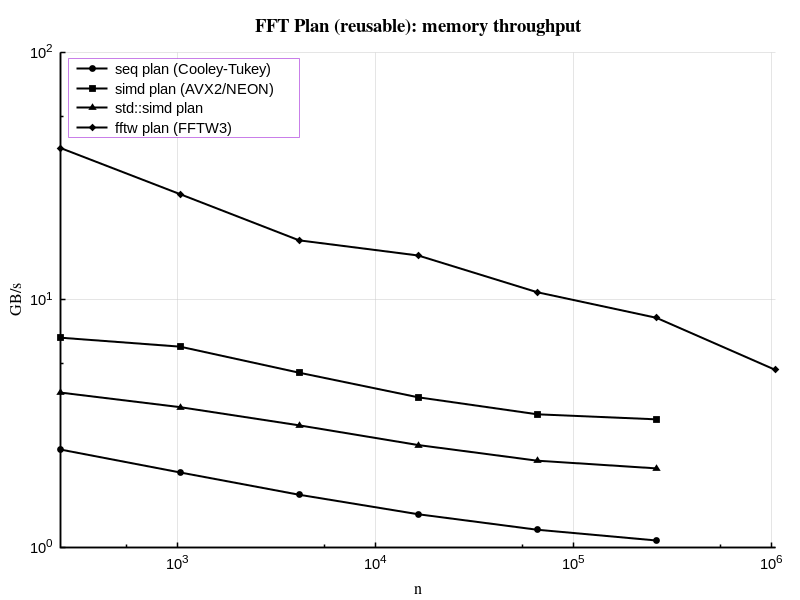
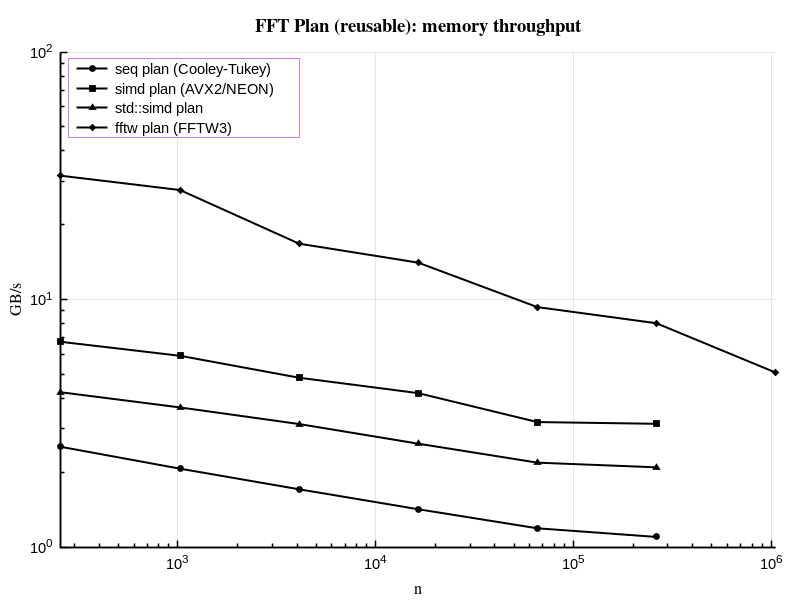
report regenerated with new env

diff --git a/docs/report/index.html b/docs/report/index.html
@@ -3,7 +3,7 @@
 <head>
   <meta charset="UTF-8"/>
   <meta name="viewport" content="width=device-width, initial-scale=1.0"/>
-  <title>numerics — Status Report (2026-03-29 22:32 UTC)</title>
+  <title>numerics — Status Report (2026-04-02 09:48 UTC)</title>
   <script src="https://cdn.jsdelivr.net/npm/marked/marked.min.js"></script>
   <style>
     body { max-width: 900px; margin: 0 auto; padding: 2rem; font-family: sans-serif; line-height: 1.6; }
@@ -21,7 +21,7 @@
 <div id="content"></div>
 <script>
 (function(){
-  var md = "# Numerics Library — Status Report\n\n> 2026-03-29 22:32 UTC · GNU 11.4.0 · Release\n\nAuto-generated by `make report`. Each section compares our implementation against the\nindustry-standard LAPACK\/BLAS reference. Sections without data show `[not available]`.\n\n---\n\n## Table of Contents\n\n- [Build Environment](#build-environment)\n- [Test Summary](#test-summary)\n- [Core — Vector and Matrix](#core--vector-and-matrix)\n  - [Benchmarks — Matrix Multiply](#benchmarks--matrix-multiply)\n  - [Benchmarks — Matrix-Vector Multiply](#benchmarks--matrix-vector-multiply)\n  - [Benchmarks — Dot Product](#benchmarks--dot-product)\n  - [Benchmarks — Axpy](#benchmarks--axpy)\n- [Factorizations](#factorizations)\n  - [LU Factorization](#lu-factorization)\n  - [QR Factorization](#qr-factorization)\n  - [Thomas Tridiagonal Solver](#thomas-tridiagonal-solver)\n- [Iterative Solvers](#iterative-solvers)\n  - [Conjugate Gradient](#conjugate-gradient)\n- [Banded Matrices](#banded-matrices)\n- [Eigensolvers](#eigensolvers)\n  - [Full Symmetric Eigensolver](#full-symmetric-eigensolver)\n  - [Lanczos (Matrix-Free)](#lanczos-matrix-free)\n- [Singular Value Decomposition](#singular-value-decomposition)\n  - [Full SVD](#full-svd)\n  - [Randomized Truncated SVD](#randomized-truncated-svd)\n- [Analysis](#analysis)\n- [Spectral — FFT](#spectral--fft)\n\n---\n\n## Build Environment\n\n### System\n\n| Property | Value |\n|----------|-------|\n| OS       | Linux |\n| CPU      | 8 core AMD Ryzen 7 7800X3D 8-Core Processor |\n| RAM      | 31269 MB (30.5 GB) |\n| GPU      | NVIDIA GeForce RTX 4070 SUPER |\n\n\n### Backends\n\n| Backend | Status | Notes |\n|---------|--------|-------|\n| BLAS \/ cblas | **found** | Backend::blas   -- cblas_dgemm, cblas_ddot, cblas_dgemv |\n| LAPACKE | **found** | Backend::lapack -- dgetrf, dgeqrf, dgesdd, dsyevd, dgtsv |\n| OpenMP | **found** | Backend::omp    -- parallel blocked loops |\n| FFTW3 | **found** | FFTBackend::fftw -- AVX2\/NEON optimised DFT |\n| CUDA | **found** | Backend::gpu    -- custom kernels \/ cuBLAS |\n| MPI | not found | distributed ops (experimental) |\n\n\n---\n\n## Test Summary\n\nAll test suites. A failed suite must be investigated before using the library in production.\n\n| Suite | Tests | Passed | Failed | Time |\n|-------|------:|-------:|-------:|-----:|\n| Vector | 7 | 7 | 0 | 0.0 ms |\n| Matrix | 5 | 5 | 0 | 0.0 ms |\n| MatmulPolicy | 1 | 1 | 0 | 0.0 ms |\n| MatvecPolicy | 1 | 1 | 0 | 0.0 ms |\n| CG | 3 | 3 | 0 | 0.0 ms |\n| Thomas | 3 | 3 | 0 | 0.0 ms |\n| GaussSeidel | 3 | 3 | 0 | 0.0 ms |\n| Jacobi | 3 | 3 | 0 | 0.0 ms |\n| GMRES | 4 | 4 | 0 | 0.0 ms |\n| SparseMatrix | 3 | 3 | 0 | 0.0 ms |\n| BandedMatrix | 6 | 6 | 0 | 0.0 ms |\n| BandedSolver | 11 | 11 | 0 | 23.0 ms |\n| BandedMatvec | 2 | 2 | 0 | 0.0 ms |\n| BandedNorm | 1 | 1 | 0 | 0.0 ms |\n| LU | 9 | 9 | 0 | 0.0 ms |\n| QR | 7 | 7 | 0 | 0.0 ms |\n| Roots | 9 | 9 | 0 | 0.0 ms |\n| Quadrature | 11 | 11 | 0 | 37.0 ms |\n| FFT | 13 | 13 | 0 | 1.0 ms |\n| FFTPlan | 4 | 4 | 0 | 60.0 ms |\n| ODE_Euler | 1 | 1 | 0 | 0.0 ms |\n| ODE_RK4 | 2 | 2 | 0 | 0.0 ms |\n| ODE_RK45 | 2 | 2 | 0 | 0.0 ms |\n| ODE_Callback | 2 | 2 | 0 | 0.0 ms |\n| ODE_Verlet | 4 | 4 | 0 | 0.0 ms |\n| ODE_Yoshida4 | 3 | 3 | 0 | 0.0 ms |\n| EigSym_Jacobi | 3 | 3 | 0 | 0.0 ms |\n| EigSym_LAPACK | 3 | 3 | 0 | 0.0 ms |\n| PowerIteration | 1 | 1 | 0 | 0.0 ms |\n| Lanczos | 1 | 1 | 0 | 0.0 ms |\n| SVD_Jacobi | 3 | 3 | 0 | 0.0 ms |\n| SVD_LAPACK | 4 | 4 | 0 | 0.0 ms |\n| SVD_Randomized | 2 | 2 | 0 | 0.0 ms |\n\n\n---\n\n## Core — Vector and Matrix\n\n`Vector` and `Matrix` dispatch to the backend selected via the `Backend` enum\n(`seq → blocked → simd → blas → omp → gpu`). With BLAS available, `default_backend`\nresolves to `Backend::blas`.\n\n### Tests\n\n| Suite | Tests | Passed | Failed | Time |\n|-------|------:|-------:|-------:|-----:|\n| Vector | 7 | 7 | 0 | 0.0 ms |\n| Matrix | 5 | 5 | 0 | 0.0 ms |\n\n\n### Benchmarks — Matrix Multiply\n\nThroughput: `2 n³ \/ time` (GFLOP\/s, higher is better). Sizes n = 64…512.\n\n![Matrix multiply: GFLOP\/s vs n](plots\/matmul.png)\n\n\n| Variant | n=64 us | n=128 us | n=256 us | n=512 us |\n|---------|---------|----------|----------|----------|\n| naive | 147.9 | 1696.2 | 28639.3 | 589898.0 |\n| blocked (auto-vec) | 30.6 | 249.9 | 2020.3 | 20047.1 |\n| reg-blocked | 51.0 | 411.1 | 3323.1 | 28196.5 |\n| blocked | 30.7 | 249.1 | 2019.0 | 16763.5 |\n| simd | 16.2 | 132.2 | 1455.3 | 31721.6 |\n| blas | 11.2 | 31.0 | 140.6 | 994.0 |\n| omp | 2657.6 | 5839.1 | 5791.0 | 5971.0 |\n| gpu | 0.3 | 0.3 | 0.3 | 0.3 |\n| Matmul_Scalar | 123.0 | 1296.1 | 27899.0 | 486643.2 |\n| Matmul_Scalar_Blocked | 108.9 | 882.2 | 7073.3 | 57203.0 |\n\n*Time in us. Lower is better.*\n\n\n### Benchmarks — Matrix-Vector Multiply\n\nMemory-bound. GB\/s = `(n² + 2n) × 8 \/ time`.\n\n*Plot not available (backend absent or benchmarks not run).*\n\n\n| Variant | n=64 GB\/s | n=128 GB\/s | n=256 GB\/s | n=512 GB\/s | n=1024 GB\/s | n=2048 GB\/s |\n|---------|-----------|------------|------------|------------|-------------|-------------|\n| seq | 15.47 | 12.99 | 11.18 | 10.44 | 10.08 | 9.93 |\n| blocked | 15.47 | 12.99 | 11.17 | 10.43 | 10.10 | 9.93 |\n| simd | 95.17 | 86.85 | 63.27 | 60.17 | 48.36 | 42.58 |\n| blas | 115.83 | 48.19 | 152.16 | 351.95 | 423.28 | 439.11 |\n| omp | 0.01 | 0.02 | 0.09 | 0.45 | 1.47 | 5.78 |\n| gpu | 120.40 | 475.37 | 1886.92 | 7520.19 | 30008.08 | 120085.89 |\n\n*Throughput in GB\/s. Higher is better.*\n\n\n### Benchmarks — Dot Product\n\n*Plot not available (backend absent or benchmarks not run).*\n\n\n| Variant | n=1024 GB\/s | n=4096 GB\/s | n=16384 GB\/s | n=65536 GB\/s | n=262144 GB\/s | n=1048576 GB\/s |\n|---------|-------------|-------------|--------------|--------------|---------------|----------------|\n| seq | 22.06 | 21.15 | 20.99 | 20.88 | 20.87 | 26.07 |\n| blas | 277.33 | 154.31 | 94.81 | 277.59 | 496.26 | 523.74 |\n| omp | 0.00 | 0.01 | 0.04 | 0.18 | 0.73 | 2.98 |\n| gpu | 2.40 | 9.59 | 38.24 | 153.33 | 57.25 | 234.47 |\n\n*Throughput in GB\/s. Higher is better.*\n\n\n### Benchmarks — Axpy (y += a·x)\n\n*Plot not available (backend absent or benchmarks not run).*\n\n\n| Variant | n=1024 GB\/s | n=4096 GB\/s | n=16384 GB\/s | n=65536 GB\/s | n=262144 GB\/s | n=1048576 GB\/s |\n|---------|-------------|-------------|--------------|--------------|---------------|----------------|\n| seq | 377.93 | 221.34 | 223.61 | 186.26 | 186.25 | 183.28 |\n| blas | 358.49 | 220.07 | 133.71 | 387.36 | 693.99 | 674.22 |\n| omp | 0.01 | 0.02 | 0.07 | 0.29 | 1.11 | 4.41 |\n| gpu | 88.01 | 361.60 | 1405.75 | 5614.33 | 22488.22 | 89781.20 |\n\n*Throughput in GB\/s. Higher is better.*\n\n\n---\n\n## Factorizations\n\nThree variants benchmarked side-by-side: **our seq**, **our omp**, **LAPACK**\n(`LAPACKE_dgetrf` \/ `LAPACKE_dgeqrf`). With LAPACK available, `lu()` and `qr()`\ndefault to `Backend::lapack`.\n\n### Tests\n\n| Suite | Tests | Passed | Failed | Time |\n|-------|------:|-------:|-------:|-----:|\n| Thomas | 3 | 3 | 0 | 0.0 ms |\n| LU | 9 | 9 | 0 | 0.0 ms |\n| QR | 7 | 7 | 0 | 0.0 ms |\n\n\n### LU Factorization\n\nLAPACK uses a blocked algorithm (BLAS-3 trailing-matrix updates via `dgemm`) that is\nsignificantly faster than our unblocked Doolittle for large n.\n\n*Plot not available (backend absent or benchmarks not run).*\n\n\n| Variant | n=64 us | n=128 us | n=256 us | n=512 us | n=1024 us |\n|---------|---------|----------|----------|----------|-----------|\n| seq | 11.5 | 100.2 | 866.2 | 8612.7 | 57056.2 |\n| omp | 11.5 | 100.4 | 865.9 | 8618.8 | 57074.2 |\n| LU<Backend::lapack> | 17.5 | 206175.7 | 444255.8 | 1045780.3 | 2022456.5 |\n\n*GFLOP\/s: 2\/3 n^3 \/ time. Higher is better.*\n\n\n### QR Factorization\n\nLAPACK (`dgeqrf` + `dorgqr`) uses blocked Householder with `dgemm` for panel updates.\n\n*Plot not available (backend absent or benchmarks not run).*\n\n\n| Variant | n=64 us | n=128 us | n=256 us | n=512 us |\n|---------|---------|----------|----------|----------|\n| seq | 201.8 | 4032.5 | 89445.9 | 1734123.0 |\n| omp | 184.9 | 4019.4 | 89586.0 | 1734253.4 |\n| QR<Backend::lapack> | 66.1 | 731.4 | 2585.9 | 17194.0 |\n\n*GFLOP\/s: 4\/3 n^3 \/ time. Higher is better.*\n\n\n### Thomas Tridiagonal Solver\n\nO(n) direct solver. `LAPACKE_dgtsv` uses the same algorithm with additional\npivoting for stability.\n\n![Thomas algorithm: time vs n](plots\/thomas.png)\n\n\n| Variant | n=64 us | n=256 us | n=1024 us | n=4096 us | n=16384 us | n=65536 us |\n|---------|---------|----------|-----------|-----------|------------|------------|\n| Thomas | 1.0 | 4.0 | 15.6 | 61.6 | 247.4 | 993.1 |\n\n*Time in us. Linear O(n) scaling expected.*\n\n\n---\n\n## Iterative Solvers\n\n### Tests\n\n| Suite | Tests | Passed | Failed | Time |\n|-------|------:|-------:|-------:|-----:|\n| CG | 3 | 3 | 0 | 0.0 ms |\n| GaussSeidel | 3 | 3 | 0 | 0.0 ms |\n| Jacobi | 3 | 3 | 0 | 0.0 ms |\n\n\n### Conjugate Gradient\n\nCG inner-product and axpy calls dispatch to `best_backend` (BLAS when available).\n\n![Conjugate gradient: time vs n](plots\/cg.png)\n\n\n| Variant | n=32 us | n=64 us | n=128 us | n=256 us |\n|---------|---------|---------|----------|----------|\n| CG | 1.4 | 3.0 | 17.0 | 22.0 |\n| gpu | 37.6 | 35.5 | 35.7 | 36.5 |\n\n*Time in us. Lower is better.*\n\n\n---\n\n## Banded Matrices\n\n### Tests\n\n*No test data -- run `make report` to generate.*\n\n\n### Benchmarks\n\n![Banded solver: time vs n](plots\/banded.png)\n\n\n| Variant | n=3 us | n=5 us | n=7 us | n=11 us | n=15 us | n=21 us | n=64 us | n=256 us | n=1024 us | n=4096 us | n=16384 us | n=65536 us | n=262144 us |\n|---------|--------|--------|--------|---------|---------|---------|---------|----------|-----------|-----------|------------|------------|-------------|\n| BandedSolve_Tridiagonal | -- | -- | -- | -- | -- | -- | 1.4 | 4.7 | 17.9 | 70.1 | 282.6 | 1510.4 | 6357.6 |\n| BandedSolve_Pentadiagonal | -- | -- | -- | -- | -- | -- | 1.7 | 5.6 | 21.6 | 85.1 | 344.4 | 2016.4 | -- |\n| BandedSolve_General_KL2_KU4 | -- | -- | -- | -- | -- | -- | 1.7 | 5.9 | 22.8 | 89.5 | 669.8 | 2321.8 | -- |\n| BandedSolve_General_KL5_KU5 | -- | -- | -- | -- | -- | -- | 2.1 | 7.9 | 30.3 | 123.1 | 871.0 | -- | -- |\n| BandedLU_Factorization | -- | -- | -- | -- | -- | -- | 0.9 | 2.4 | 8.7 | 34.0 | 135.8 | 534.8 | -- |\n| BandedLU_Solve | -- | -- | -- | -- | -- | -- | 1.1 | 3.2 | 11.9 | 46.5 | 185.5 | 743.5 | -- |\n| BandedSolve_MultiRHS | -- | -- | -- | -- | -- | -- | 11.9 | 47.1 | 186.7 | 746.4 | 2986.4 | -- | -- |\n| BandedMatvec_Tridiagonal | -- | -- | -- | -- | -- | -- | 0.5 | 1.5 | 5884.2 | 5922.0 | 5496.1 | 6021.6 | 5702.0 |\n| BandedMatvec_Pentadiagonal | -- | -- | -- | -- | -- | -- | 0.7 | 2.4 | 5791.0 | 5498.6 | 5793.1 | 3128.1 | 5912.8 |\n| BandedSolve_Bandwidth_Scaling | 72.9 | 85.4 | 97.8 | 135.0 | 182.4 | 292.0 | -- | -- | -- | -- | -- | -- | -- |\n\n*Time in us. Lower is better.*\n\n\n---\n\n## Eigensolvers\n\nThree variants: **our cyclic Jacobi (seq)**, **our Jacobi (omp)**, **LAPACK `dsyevd`**\n(divide-and-conquer, asymptotically fastest for dense matrices).\nLanczos is matrix-free and targets only k eigenvalues — it lives on a separate plot.\n\n### Tests\n\n| Suite | Tests | Passed | Failed | Time |\n|-------|------:|-------:|-------:|-----:|\n| PowerIteration | 1 | 1 | 0 | 0.0 ms |\n| Lanczos | 1 | 1 | 0 | 0.0 ms |\n\n\n### Full Symmetric Eigensolver\n\n![Symmetric eigensolver: time vs n](plots\/eigen.png)\n\n\n| Variant | n=32 us | n=64 us | n=128 us | n=256 us | n=512 us |\n|---------|---------|---------|----------|----------|----------|\n| seq | 174.0 | 1189.0 | 11470.5 | 280768.3 | 7063639.7 |\n| EigSym<Backend::lapack> | 49.6 | 177.9 | 915.9 | 3240.0 | 22079.3 |\n\n*Time in us. Lower is better.*\n\n\n### Lanczos (Matrix-Free)\n\nk = 10 eigenvalues requested. Each step costs one matvec O(n²) plus reorthogonalisation.\n\n| Variant | n=64 us | n=128 us | n=256 us | n=512 us | n=1024 us | n=2048 us |\n|---------|---------|----------|----------|----------|-----------|-----------|\n| Lanczos | 26.5 | 138.1 | 244.1 | 524.9 | 1613.9 | 5725.7 |\n\n*Time in us (k=10 eigenvalues). Lower is better.*\n\n\n---\n\n## Singular Value Decomposition\n\nThree variants: **our one-sided Jacobi**, **randomized truncated SVD** (top k = n\/8),\n**LAPACK `dgesdd`** (divide-and-conquer, fastest full SVD).\n\n### Tests\n\n*No test data -- run `make report` to generate.*\n\n\n### Full SVD\n\n![SVD: time vs n](plots\/svd.png)\n\n\n*No benchmark data -- run `make report` to generate.*\n\n\n### Randomized Truncated SVD\n\n| Variant | n=64 us | n=128 us | n=256 us | n=512 us | n=1024 us |\n|---------|---------|----------|----------|----------|-----------|\n| SVD_Randomized | 190.6 | 1144.3 | 10658.5 | 277584.8 | 2480805.3 |\n\n*Time in us (k=n\/8 singular values). Lower is better.*\n\n\n---\n\n## Analysis\n\nRoot finding (bisection, Newton, secant) and numerical quadrature\n(Gauss-Legendre, adaptive Simpson).\n\n### Tests\n\n| Suite | Tests | Passed | Failed | Time |\n|-------|------:|-------:|-------:|-----:|\n| Roots | 9 | 9 | 0 | 0.0 ms |\n| Quadrature | 11 | 11 | 0 | 37.0 ms |\n\n\n---\n\n## Spectral — FFT\n\nBackends: `seq` (Cooley-Tukey), `simd` (AVX2\/NEON), `fftw` (FFTW3).\n\n### Tests\n\n| Suite | Tests | Passed | Failed | Time |\n|-------|------:|-------:|-------:|-----:|\n| FFT | 13 | 13 | 0 | 1.0 ms |\n| FFTPlan | 4 | 4 | 0 | 60.0 ms |\n\n\n### Benchmarks — Forward FFT\n\n![FFT throughput: GB\/s vs n](plots\/fft.png)\n\n\n| Variant | n=256 GB\/s | n=1024 GB\/s | n=4096 GB\/s | n=16384 GB\/s | n=65536 GB\/s | n=262144 GB\/s | n=1048576 GB\/s |\n|---------|------------|-------------|-------------|--------------|--------------|---------------|----------------|\n| seq (Cooley-Tukey) | 2.47 | 2.00 | 1.63 | 1.36 | 1.17 | 1.06 | -- |\n| simd (AVX2\/NEON) | 7.01 | 6.45 | 5.06 | 4.03 | 3.44 | 3.28 | -- |\n| std::simd | 4.20 | 3.67 | 3.10 | 2.58 | 2.23 | 2.08 | -- |\n| fftw (FFTW3) | 40.86 | 26.65 | 17.34 | 15.06 | 10.70 | 8.44 | 5.19 |\n\n*Throughput in GB\/s. Higher is better.*\n\n\n### Benchmarks — FFT Plan (amortised)\n\n![FFT plan throughput: GB\/s vs n](plots\/fft_plan.png)\n\n\n| Variant | n=256 GB\/s | n=1024 GB\/s | n=4096 GB\/s | n=16384 GB\/s | n=65536 GB\/s | n=262144 GB\/s | n=1048576 GB\/s |\n|---------|------------|-------------|-------------|--------------|--------------|---------------|----------------|\n| seq (Cooley-Tukey) | 2.47 | 2.00 | 1.63 | 1.36 | 1.17 | 1.06 | -- |\n| simd (AVX2\/NEON) | 7.01 | 6.45 | 5.06 | 4.03 | 3.44 | 3.28 | -- |\n| std::simd | 4.20 | 3.67 | 3.10 | 2.58 | 2.23 | 2.08 | -- |\n| fftw (FFTW3) | 40.86 | 26.65 | 17.34 | 15.06 | 10.70 | 8.44 | 5.19 |\n\n*Throughput in GB\/s. Plan creation excluded. Higher is better.*\n\n\n### Benchmarks — Real-to-Complex FFT\n\n![rFFT throughput: GB\/s vs n](plots\/rfft.png)\n\n\n| Variant | n=256 GB\/s | n=1024 GB\/s | n=4096 GB\/s | n=16384 GB\/s | n=65536 GB\/s | n=262144 GB\/s | n=1048576 GB\/s |\n|---------|------------|-------------|-------------|--------------|--------------|---------------|----------------|\n| seq (Cooley-Tukey) | 0.64 | 0.52 | 0.42 | 0.36 | 0.31 | 0.27 | -- |\n| simd (AVX2\/NEON) | 1.52 | 1.50 | 1.39 | 1.21 | 1.08 | 1.03 | -- |\n| std::simd | 1.23 | 1.15 | 1.04 | 0.92 | 0.81 | 0.77 | -- |\n| fftw (FFTW3) | 0.28 | 0.84 | 1.66 | 1.98 | 2.12 | 1.76 | 1.66 |\n\n*Throughput in GB\/s. Higher is better.*\n\n\n---\n\n*Generated by `make report`.*\n";
+  var md = "# Numerics Library — Status Report\n\n> 2026-04-02 09:48 UTC · GNU 11.4.0 · Release\n\nAuto-generated by `make report`. Each section compares our implementation against the\nindustry-standard LAPACK\/BLAS reference. Sections without data show `[not available]`.\n\n---\n\n## Table of Contents\n\n- [Build Environment](#build-environment)\n- [Test Summary](#test-summary)\n- [Core — Vector and Matrix](#core--vector-and-matrix)\n  - [Benchmarks — Matrix Multiply](#benchmarks--matrix-multiply)\n  - [Benchmarks — Matrix-Vector Multiply](#benchmarks--matrix-vector-multiply)\n  - [Benchmarks — Dot Product](#benchmarks--dot-product)\n  - [Benchmarks — Axpy](#benchmarks--axpy)\n- [Factorizations](#factorizations)\n  - [LU Factorization](#lu-factorization)\n  - [QR Factorization](#qr-factorization)\n  - [Thomas Tridiagonal Solver](#thomas-tridiagonal-solver)\n- [Iterative Solvers](#iterative-solvers)\n  - [Conjugate Gradient](#conjugate-gradient)\n- [Banded Matrices](#banded-matrices)\n- [Eigensolvers](#eigensolvers)\n  - [Full Symmetric Eigensolver](#full-symmetric-eigensolver)\n  - [Lanczos (Matrix-Free)](#lanczos-matrix-free)\n- [Singular Value Decomposition](#singular-value-decomposition)\n  - [Full SVD](#full-svd)\n  - [Randomized Truncated SVD](#randomized-truncated-svd)\n- [Analysis](#analysis)\n- [Spectral — FFT](#spectral--fft)\n\n---\n\n## Build Environment\n\n### System\n\n| Property | Value |\n|----------|-------|\n| OS       | Linux |\n| CPU      | 8 core AMD Ryzen 7 7800X3D 8-Core Processor |\n| RAM      | 31269 MB (30.5 GB) |\n| GPU      | NVIDIA GeForce RTX 4070 SUPER |\n\n\n### Backends\n\n| Backend | Status | Notes |\n|---------|--------|-------|\n| BLAS \/ cblas | **found** | Backend::blas   -- cblas_dgemm, cblas_ddot, cblas_dgemv |\n| LAPACKE | **found** | Backend::lapack -- dgetrf, dgeqrf, dgesdd, dsyevd, dgtsv |\n| OpenMP | **found** | Backend::omp    -- parallel blocked loops |\n| FFTW3 | **found** | FFTBackend::fftw -- AVX2\/NEON optimised DFT |\n| CUDA | **found** | Backend::gpu    -- custom kernels \/ cuBLAS |\n| MPI | not found | distributed ops (experimental) |\n\n\n---\n\n## Test Summary\n\nAll test suites. A failed suite must be investigated before using the library in production.\n\n| Suite | Tests | Passed | Failed | Time |\n|-------|------:|-------:|-------:|-----:|\n| Vector | 7 | 7 | 0 | 0.0 ms |\n| Matrix | 5 | 5 | 0 | 0.0 ms |\n| MatmulPolicy | 1 | 1 | 0 | 0.0 ms |\n| MatvecPolicy | 1 | 1 | 0 | 0.0 ms |\n| CG | 3 | 3 | 0 | 0.0 ms |\n| Thomas | 3 | 3 | 0 | 0.0 ms |\n| GaussSeidel | 3 | 3 | 0 | 0.0 ms |\n| Jacobi | 3 | 3 | 0 | 0.0 ms |\n| GMRES | 4 | 4 | 0 | 0.0 ms |\n| SparseMatrix | 3 | 3 | 0 | 0.0 ms |\n| BandedMatrix | 6 | 6 | 0 | 0.0 ms |\n| BandedSolver | 11 | 11 | 0 | 70.0 ms |\n| BandedMatvec | 2 | 2 | 0 | 0.0 ms |\n| BandedNorm | 1 | 1 | 0 | 0.0 ms |\n| LU | 9 | 9 | 0 | 0.0 ms |\n| QR | 7 | 7 | 0 | 0.0 ms |\n| Roots | 9 | 9 | 0 | 0.0 ms |\n| Quadrature | 11 | 11 | 0 | 13.0 ms |\n| FFT | 13 | 13 | 0 | 2.0 ms |\n| FFTPlan | 4 | 4 | 0 | 61.0 ms |\n| ODE_Euler | 1 | 1 | 0 | 0.0 ms |\n| ODE_RK4 | 2 | 2 | 0 | 0.0 ms |\n| ODE_RK45 | 2 | 2 | 0 | 0.0 ms |\n| ODE_Stepper | 2 | 2 | 0 | 0.0 ms |\n| ODE_Verlet | 4 | 4 | 0 | 0.0 ms |\n| ODE_Yoshida4 | 3 | 3 | 0 | 0.0 ms |\n| EigSym_Jacobi | 3 | 3 | 0 | 0.0 ms |\n| EigSym_LAPACK | 3 | 3 | 0 | 0.0 ms |\n| PowerIteration | 1 | 1 | 0 | 0.0 ms |\n| Lanczos | 1 | 1 | 0 | 0.0 ms |\n| SVD_Jacobi | 3 | 3 | 0 | 0.0 ms |\n| SVD_LAPACK | 4 | 4 | 0 | 1.0 ms |\n| SVD_Randomized | 2 | 2 | 0 | 0.0 ms |\n\n\n---\n\n## Core — Vector and Matrix\n\n`Vector` and `Matrix` dispatch to the backend selected via the `Backend` enum\n(`seq → blocked → simd → blas → omp → gpu`). With BLAS available, `default_backend`\nresolves to `Backend::blas`.\n\n### Tests\n\n| Suite | Tests | Passed | Failed | Time |\n|-------|------:|-------:|-------:|-----:|\n| Vector | 7 | 7 | 0 | 0.0 ms |\n| Matrix | 5 | 5 | 0 | 0.0 ms |\n\n\n### Benchmarks — Matrix Multiply\n\nThroughput: `2 n³ \/ time` (GFLOP\/s, higher is better). Sizes n = 64…512.\n\n![Matrix multiply: GFLOP\/s vs n](plots\/matmul.png)\n\n\n| Variant | n=64 us | n=128 us | n=256 us | n=512 us |\n|---------|---------|----------|----------|----------|\n| naive | 148.1 | 1511.8 | 26663.7 | 424723.0 |\n| blocked (auto-vec) | 29.4 | 243.0 | 1956.3 | 19442.6 |\n| reg-blocked | 51.3 | 405.0 | 3308.9 | 27863.5 |\n| blocked | 30.1 | 243.1 | 1959.5 | 16421.1 |\n| simd | 16.0 | 132.1 | 1460.1 | 31236.4 |\n| blas | 11.1 | 32.0 | 139.1 | 1013.3 |\n| omp | 5727.5 | 5418.7 | 5283.2 | 5883.8 |\n| gpu | 0.3 | 0.3 | 0.3 | 0.3 |\n| Matmul_Scalar | 141.7 | 1360.1 | 24878.7 | 478828.8 |\n| Matmul_Scalar_Blocked | 67.8 | 568.3 | 4644.4 | 38583.7 |\n\n*Time in us. Lower is better.*\n\n\n### Benchmarks — Matrix-Vector Multiply\n\nMemory-bound. GB\/s = `(n² + 2n) × 8 \/ time`.\n\n*Plot not available (backend absent or benchmarks not run).*\n\n\n| Variant | n=64 GB\/s | n=128 GB\/s | n=256 GB\/s | n=512 GB\/s | n=1024 GB\/s | n=2048 GB\/s |\n|---------|-----------|------------|------------|------------|-------------|-------------|\n| seq | 17.99 | 13.12 | 11.33 | 10.51 | 10.26 | 10.09 |\n| blocked | 17.97 | 13.12 | 11.33 | 10.51 | 10.26 | 10.09 |\n| simd | 88.92 | 83.71 | 67.81 | 60.88 | 49.11 | 43.23 |\n| blas | 117.66 | 49.69 | 155.56 | 372.52 | 449.61 | 432.45 |\n| omp | 0.01 | 0.03 | 0.11 | 0.37 | 1.49 | 5.69 |\n| gpu | 119.57 | 476.53 | 1895.11 | 7545.21 | 30061.77 | 120364.42 |\n\n*Throughput in GB\/s. Higher is better.*\n\n\n### Benchmarks — Dot Product\n\n*Plot not available (backend absent or benchmarks not run).*\n\n\n| Variant | n=1024 GB\/s | n=4096 GB\/s | n=16384 GB\/s | n=65536 GB\/s | n=262144 GB\/s | n=1048576 GB\/s |\n|---------|-------------|-------------|--------------|--------------|---------------|----------------|\n| seq | 22.40 | 21.54 | 21.32 | 21.21 | 21.20 | 22.26 |\n| blas | 211.51 | 142.11 | 88.00 | 282.21 | 495.23 | 485.47 |\n| omp | 0.00 | 0.01 | 0.06 | 0.21 | 0.72 | 2.92 |\n| gpu | 2.44 | 9.75 | 38.68 | 154.58 | 55.59 | 236.07 |\n\n*Throughput in GB\/s. Higher is better.*\n\n\n### Benchmarks — Axpy (y += a·x)\n\n*Plot not available (backend absent or benchmarks not run).*\n\n\n| Variant | n=1024 GB\/s | n=4096 GB\/s | n=16384 GB\/s | n=65536 GB\/s | n=262144 GB\/s | n=1048576 GB\/s |\n|---------|-------------|-------------|--------------|--------------|---------------|----------------|\n| seq | 262.93 | 184.04 | 199.12 | 188.22 | 164.72 | 164.04 |\n| blas | 307.78 | 215.50 | 132.04 | 399.82 | 670.27 | 682.62 |\n| omp | 0.01 | 0.02 | 0.07 | 0.27 | 1.14 | 6.18 |\n| gpu | 88.71 | 360.77 | 1414.75 | 5646.60 | 22559.62 | 90374.60 |\n\n*Throughput in GB\/s. Higher is better.*\n\n\n---\n\n## Factorizations\n\nThree variants benchmarked side-by-side: **our seq**, **our omp**, **LAPACK**\n(`LAPACKE_dgetrf` \/ `LAPACKE_dgeqrf`). With LAPACK available, `lu()` and `qr()`\ndefault to `Backend::lapack`.\n\n### Tests\n\n| Suite | Tests | Passed | Failed | Time |\n|-------|------:|-------:|-------:|-----:|\n| Thomas | 3 | 3 | 0 | 0.0 ms |\n| LU | 9 | 9 | 0 | 0.0 ms |\n| QR | 7 | 7 | 0 | 0.0 ms |\n\n\n### LU Factorization\n\nLAPACK uses a blocked algorithm (BLAS-3 trailing-matrix updates via `dgemm`) that is\nsignificantly faster than our unblocked Doolittle for large n.\n\n*Plot not available (backend absent or benchmarks not run).*\n\n\n| Variant | n=64 us | n=128 us | n=256 us | n=512 us | n=1024 us |\n|---------|---------|----------|----------|----------|-----------|\n| seq | 11.4 | 97.5 | 866.5 | 8462.9 | 56296.4 |\n| omp | 11.4 | 99.1 | 866.7 | 8461.6 | 56488.9 |\n| LU<Backend::lapack> | 17.4 | 137617.6 | 224417.9 | 1305375.8 | 2997137.8 |\n\n*GFLOP\/s: 2\/3 n^3 \/ time. Higher is better.*\n\n\n### QR Factorization\n\nLAPACK (`dgeqrf` + `dorgqr`) uses blocked Householder with `dgemm` for panel updates.\n\n*Plot not available (backend absent or benchmarks not run).*\n\n\n| Variant | n=64 us | n=128 us | n=256 us | n=512 us |\n|---------|---------|----------|----------|----------|\n| seq | 195.1 | 3982.6 | 91978.8 | 1742957.2 |\n| omp | 175.7 | 3997.4 | 91749.6 | 1746472.0 |\n| QR<Backend::lapack> | 63.3 | 790.8 | 3310.6 | 21922.4 |\n\n*GFLOP\/s: 4\/3 n^3 \/ time. Higher is better.*\n\n\n### Thomas Tridiagonal Solver\n\nO(n) direct solver. `LAPACKE_dgtsv` uses the same algorithm with additional\npivoting for stability.\n\n![Thomas algorithm: time vs n](plots\/thomas.png)\n\n\n| Variant | n=64 us | n=256 us | n=1024 us | n=4096 us | n=16384 us | n=65536 us |\n|---------|---------|----------|-----------|-----------|------------|------------|\n| Thomas | 1.0 | 3.9 | 15.4 | 60.7 | 244.0 | 996.8 |\n\n*Time in us. Linear O(n) scaling expected.*\n\n\n---\n\n## Iterative Solvers\n\n### Tests\n\n| Suite | Tests | Passed | Failed | Time |\n|-------|------:|-------:|-------:|-----:|\n| CG | 3 | 3 | 0 | 0.0 ms |\n| GaussSeidel | 3 | 3 | 0 | 0.0 ms |\n| Jacobi | 3 | 3 | 0 | 0.0 ms |\n\n\n### Conjugate Gradient\n\nCG inner-product and axpy calls dispatch to `best_backend` (BLAS when available).\n\n![Conjugate gradient: time vs n](plots\/cg.png)\n\n\n| Variant | n=32 us | n=64 us | n=128 us | n=256 us |\n|---------|---------|---------|----------|----------|\n| CG | 1.4 | 2.9 | 17.0 | 21.7 |\n| gpu | 37.5 | 35.0 | 35.3 | 36.2 |\n\n*Time in us. Lower is better.*\n\n\n---\n\n## Banded Matrices\n\n### Tests\n\n*No test data -- run `make report` to generate.*\n\n\n### Benchmarks\n\n![Banded solver: time vs n](plots\/banded.png)\n\n\n| Variant | n=3 us | n=5 us | n=7 us | n=11 us | n=15 us | n=21 us | n=64 us | n=256 us | n=1024 us | n=4096 us | n=16384 us | n=65536 us | n=262144 us |\n|---------|--------|--------|--------|---------|---------|---------|---------|----------|-----------|-----------|------------|------------|-------------|\n| BandedSolve_Tridiagonal | -- | -- | -- | -- | -- | -- | 1.4 | 4.7 | 17.6 | 69.4 | 278.3 | 1502.7 | 6306.1 |\n| BandedSolve_Pentadiagonal | -- | -- | -- | -- | -- | -- | 1.7 | 5.6 | 21.4 | 84.4 | 339.5 | 2001.1 | -- |\n| BandedSolve_General_KL2_KU4 | -- | -- | -- | -- | -- | -- | 1.7 | 5.8 | 22.6 | 90.7 | 669.1 | 2313.9 | -- |\n| BandedSolve_General_KL5_KU5 | -- | -- | -- | -- | -- | -- | 2.2 | 8.0 | 30.5 | 121.5 | 884.3 | -- | -- |\n| BandedLU_Factorization | -- | -- | -- | -- | -- | -- | 0.9 | 2.4 | 8.6 | 33.6 | 134.0 | 529.0 | -- |\n| BandedLU_Solve | -- | -- | -- | -- | -- | -- | 1.1 | 3.2 | 11.7 | 45.8 | 182.6 | 729.5 | -- |\n| BandedSolve_MultiRHS | -- | -- | -- | -- | -- | -- | 11.7 | 46.2 | 184.0 | 735.6 | 2943.8 | -- | -- |\n| BandedMatvec_Tridiagonal | -- | -- | -- | -- | -- | -- | 0.6 | 1.5 | 5828.3 | 5723.1 | 5785.5 | 5984.1 | 5856.8 |\n| BandedMatvec_Pentadiagonal | -- | -- | -- | -- | -- | -- | 0.8 | 2.3 | 5738.5 | 5766.8 | 5785.9 | 5433.3 | 5800.6 |\n| BandedSolve_Bandwidth_Scaling | 72.2 | 87.1 | 99.1 | 134.5 | 181.2 | 295.9 | -- | -- | -- | -- | -- | -- | -- |\n\n*Time in us. Lower is better.*\n\n\n---\n\n## Eigensolvers\n\nThree variants: **our cyclic Jacobi (seq)**, **our Jacobi (omp)**, **LAPACK `dsyevd`**\n(divide-and-conquer, asymptotically fastest for dense matrices).\nLanczos is matrix-free and targets only k eigenvalues — it lives on a separate plot.\n\n### Tests\n\n| Suite | Tests | Passed | Failed | Time |\n|-------|------:|-------:|-------:|-----:|\n| PowerIteration | 1 | 1 | 0 | 0.0 ms |\n| Lanczos | 1 | 1 | 0 | 0.0 ms |\n\n\n### Full Symmetric Eigensolver\n\n![Symmetric eigensolver: time vs n](plots\/eigen.png)\n\n\n| Variant | n=32 us | n=64 us | n=128 us | n=256 us | n=512 us |\n|---------|---------|---------|----------|----------|----------|\n| seq | 171.1 | 1189.9 | 10779.5 | 260829.1 | 7211829.7 |\n| EigSym<Backend::lapack> | 52.5 | 178.3 | 1096.4 | 3507.1 | 20511.3 |\n\n*Time in us. Lower is better.*\n\n\n### Lanczos (Matrix-Free)\n\nk = 10 eigenvalues requested. Each step costs one matvec O(n²) plus reorthogonalisation.\n\n| Variant | n=64 us | n=128 us | n=256 us | n=512 us | n=1024 us | n=2048 us |\n|---------|---------|----------|----------|----------|-----------|-----------|\n| Lanczos | 27.1 | 196.7 | 447.3 | 816.0 | 2078.9 | 9465.7 |\n\n*Time in us (k=10 eigenvalues). Lower is better.*\n\n\n---\n\n## Singular Value Decomposition\n\nThree variants: **our one-sided Jacobi**, **randomized truncated SVD** (top k = n\/8),\n**LAPACK `dgesdd`** (divide-and-conquer, fastest full SVD).\n\n### Tests\n\n*No test data -- run `make report` to generate.*\n\n\n### Full SVD\n\n![SVD: time vs n](plots\/svd.png)\n\n\n*No benchmark data -- run `make report` to generate.*\n\n\n### Randomized Truncated SVD\n\n| Variant | n=64 us | n=128 us | n=256 us | n=512 us | n=1024 us |\n|---------|---------|----------|----------|----------|-----------|\n| SVD_Randomized | 189.9 | 2620.1 | 13943.8 | 344842.3 | 2488064.3 |\n\n*Time in us (k=n\/8 singular values). Lower is better.*\n\n\n---\n\n## Analysis\n\nRoot finding (bisection, Newton, secant) and numerical quadrature\n(Gauss-Legendre, adaptive Simpson).\n\n### Tests\n\n| Suite | Tests | Passed | Failed | Time |\n|-------|------:|-------:|-------:|-----:|\n| Roots | 9 | 9 | 0 | 0.0 ms |\n| Quadrature | 11 | 11 | 0 | 13.0 ms |\n\n\n---\n\n## Spectral — FFT\n\nBackends: `seq` (Cooley-Tukey), `simd` (AVX2\/NEON), `fftw` (FFTW3).\n\n### Tests\n\n| Suite | Tests | Passed | Failed | Time |\n|-------|------:|-------:|-------:|-----:|\n| FFT | 13 | 13 | 0 | 2.0 ms |\n| FFTPlan | 4 | 4 | 0 | 61.0 ms |\n\n\n### Benchmarks — Forward FFT\n\n![FFT throughput: GB\/s vs n](plots\/fft.png)\n\n\n| Variant | n=256 GB\/s | n=1024 GB\/s | n=4096 GB\/s | n=16384 GB\/s | n=65536 GB\/s | n=262144 GB\/s | n=1048576 GB\/s |\n|---------|------------|-------------|-------------|--------------|--------------|---------------|----------------|\n| seq (Cooley-Tukey) | 2.54 | 2.07 | 1.71 | 1.42 | 1.19 | 1.10 | -- |\n| simd (AVX2\/NEON) | 6.75 | 5.93 | 4.83 | 4.19 | 3.20 | 3.15 | -- |\n| std::simd | 4.22 | 3.67 | 3.14 | 2.62 | 2.19 | 2.10 | -- |\n| fftw (FFTW3) | 31.62 | 27.68 | 16.81 | 14.09 | 9.32 | 8.02 | 5.07 |\n\n*Throughput in GB\/s. Higher is better.*\n\n\n### Benchmarks — FFT Plan (amortised)\n\n![FFT plan throughput: GB\/s vs n](plots\/fft_plan.png)\n\n\n| Variant | n=256 GB\/s | n=1024 GB\/s | n=4096 GB\/s | n=16384 GB\/s | n=65536 GB\/s | n=262144 GB\/s | n=1048576 GB\/s |\n|---------|------------|-------------|-------------|--------------|--------------|---------------|----------------|\n| seq (Cooley-Tukey) | 2.54 | 2.07 | 1.71 | 1.42 | 1.19 | 1.10 | -- |\n| simd (AVX2\/NEON) | 6.75 | 5.93 | 4.83 | 4.19 | 3.20 | 3.15 | -- |\n| std::simd | 4.22 | 3.67 | 3.14 | 2.62 | 2.19 | 2.10 | -- |\n| fftw (FFTW3) | 31.62 | 27.68 | 16.81 | 14.09 | 9.32 | 8.02 | 5.07 |\n\n*Throughput in GB\/s. Plan creation excluded. Higher is better.*\n\n\n### Benchmarks — Real-to-Complex FFT\n\n![rFFT throughput: GB\/s vs n](plots\/rfft.png)\n\n\n| Variant | n=256 GB\/s | n=1024 GB\/s | n=4096 GB\/s | n=16384 GB\/s | n=65536 GB\/s | n=262144 GB\/s | n=1048576 GB\/s |\n|---------|------------|-------------|-------------|--------------|--------------|---------------|----------------|\n| seq (Cooley-Tukey) | 0.66 | 0.53 | 0.43 | 0.36 | 0.31 | 0.28 | -- |\n| simd (AVX2\/NEON) | 1.63 | 1.56 | 1.44 | 1.22 | 1.08 | 1.02 | -- |\n| std::simd | 1.25 | 1.17 | 1.06 | 0.94 | 0.83 | 0.77 | -- |\n| fftw (FFTW3) | 0.28 | 0.86 | 1.71 | 2.04 | 2.12 | 1.74 | 1.64 |\n\n*Throughput in GB\/s. Higher is better.*\n\n\n---\n\n*Generated by `make report`.*\n";
   var html = marked.parse(md);
   // Inject id attributes into headings so TOC anchor links work.
   // Algorithm mirrors GitHub: lowercase, strip non-(alnum|space|hyphen), spaces→hyphens.

diff --git a/docs/report/REPORT.md b/docs/report/REPORT.md
@@ -1,6 +1,6 @@
 # Numerics Library — Status Report
 
-> 2026-03-29 22:32 UTC · GNU 11.4.0 · Release
+> 2026-04-02 09:48 UTC · GNU 11.4.0 · Release
 
 Auto-generated by `make report`. Each section compares our implementation against the
 industry-standard LAPACK/BLAS reference. Sections without data show `[not available]`.
@@ -77,19 +77,19 @@ All test suites. A failed suite must be investigated before using the library in
 | GMRES | 4 | 4 | 0 | 0.0 ms |
 | SparseMatrix | 3 | 3 | 0 | 0.0 ms |
 | BandedMatrix | 6 | 6 | 0 | 0.0 ms |
-| BandedSolver | 11 | 11 | 0 | 23.0 ms |
+| BandedSolver | 11 | 11 | 0 | 70.0 ms |
 | BandedMatvec | 2 | 2 | 0 | 0.0 ms |
 | BandedNorm | 1 | 1 | 0 | 0.0 ms |
 | LU | 9 | 9 | 0 | 0.0 ms |
 | QR | 7 | 7 | 0 | 0.0 ms |
 | Roots | 9 | 9 | 0 | 0.0 ms |
-| Quadrature | 11 | 11 | 0 | 37.0 ms |
-| FFT | 13 | 13 | 0 | 1.0 ms |
-| FFTPlan | 4 | 4 | 0 | 60.0 ms |
+| Quadrature | 11 | 11 | 0 | 13.0 ms |
+| FFT | 13 | 13 | 0 | 2.0 ms |
+| FFTPlan | 4 | 4 | 0 | 61.0 ms |
 | ODE_Euler | 1 | 1 | 0 | 0.0 ms |
 | ODE_RK4 | 2 | 2 | 0 | 0.0 ms |
 | ODE_RK45 | 2 | 2 | 0 | 0.0 ms |
-| ODE_Callback | 2 | 2 | 0 | 0.0 ms |
+| ODE_Stepper | 2 | 2 | 0 | 0.0 ms |
 | ODE_Verlet | 4 | 4 | 0 | 0.0 ms |
 | ODE_Yoshida4 | 3 | 3 | 0 | 0.0 ms |
 | EigSym_Jacobi | 3 | 3 | 0 | 0.0 ms |
@@ -97,7 +97,7 @@ All test suites. A failed suite must be investigated before using the library in
 | PowerIteration | 1 | 1 | 0 | 0.0 ms |
 | Lanczos | 1 | 1 | 0 | 0.0 ms |
 | SVD_Jacobi | 3 | 3 | 0 | 0.0 ms |
-| SVD_LAPACK | 4 | 4 | 0 | 0.0 ms |
+| SVD_LAPACK | 4 | 4 | 0 | 1.0 ms |
 | SVD_Randomized | 2 | 2 | 0 | 0.0 ms |
 
 
@@ -126,16 +126,16 @@ Throughput: `2 n³ / time` (GFLOP/s, higher is better). Sizes n = 64…512.
 
 | Variant | n=64 us | n=128 us | n=256 us | n=512 us |
 |---------|---------|----------|----------|----------|
-| naive | 147.9 | 1696.2 | 28639.3 | 589898.0 |
-| blocked (auto-vec) | 30.6 | 249.9 | 2020.3 | 20047.1 |
-| reg-blocked | 51.0 | 411.1 | 3323.1 | 28196.5 |
-| blocked | 30.7 | 249.1 | 2019.0 | 16763.5 |
-| simd | 16.2 | 132.2 | 1455.3 | 31721.6 |
-| blas | 11.2 | 31.0 | 140.6 | 994.0 |
-| omp | 2657.6 | 5839.1 | 5791.0 | 5971.0 |
+| naive | 148.1 | 1511.8 | 26663.7 | 424723.0 |
+| blocked (auto-vec) | 29.4 | 243.0 | 1956.3 | 19442.6 |
+| reg-blocked | 51.3 | 405.0 | 3308.9 | 27863.5 |
+| blocked | 30.1 | 243.1 | 1959.5 | 16421.1 |
+| simd | 16.0 | 132.1 | 1460.1 | 31236.4 |
+| blas | 11.1 | 32.0 | 139.1 | 1013.3 |
+| omp | 5727.5 | 5418.7 | 5283.2 | 5883.8 |
 | gpu | 0.3 | 0.3 | 0.3 | 0.3 |
-| Matmul_Scalar | 123.0 | 1296.1 | 27899.0 | 486643.2 |
-| Matmul_Scalar_Blocked | 108.9 | 882.2 | 7073.3 | 57203.0 |
+| Matmul_Scalar | 141.7 | 1360.1 | 24878.7 | 478828.8 |
+| Matmul_Scalar_Blocked | 67.8 | 568.3 | 4644.4 | 38583.7 |
 
 *Time in us. Lower is better.*
 
@@ -149,12 +149,12 @@ Memory-bound. GB/s = `(n² + 2n) × 8 / time`.
 
 | Variant | n=64 GB/s | n=128 GB/s | n=256 GB/s | n=512 GB/s | n=1024 GB/s | n=2048 GB/s |
 |---------|-----------|------------|------------|------------|-------------|-------------|
-| seq | 15.47 | 12.99 | 11.18 | 10.44 | 10.08 | 9.93 |
-| blocked | 15.47 | 12.99 | 11.17 | 10.43 | 10.10 | 9.93 |
-| simd | 95.17 | 86.85 | 63.27 | 60.17 | 48.36 | 42.58 |
-| blas | 115.83 | 48.19 | 152.16 | 351.95 | 423.28 | 439.11 |
-| omp | 0.01 | 0.02 | 0.09 | 0.45 | 1.47 | 5.78 |
-| gpu | 120.40 | 475.37 | 1886.92 | 7520.19 | 30008.08 | 120085.89 |
+| seq | 17.99 | 13.12 | 11.33 | 10.51 | 10.26 | 10.09 |
+| blocked | 17.97 | 13.12 | 11.33 | 10.51 | 10.26 | 10.09 |
+| simd | 88.92 | 83.71 | 67.81 | 60.88 | 49.11 | 43.23 |
+| blas | 117.66 | 49.69 | 155.56 | 372.52 | 449.61 | 432.45 |
+| omp | 0.01 | 0.03 | 0.11 | 0.37 | 1.49 | 5.69 |
+| gpu | 119.57 | 476.53 | 1895.11 | 7545.21 | 30061.77 | 120364.42 |
 
 *Throughput in GB/s. Higher is better.*
 
@@ -166,10 +166,10 @@ Memory-bound. GB/s = `(n² + 2n) × 8 / time`.
 
 | Variant | n=1024 GB/s | n=4096 GB/s | n=16384 GB/s | n=65536 GB/s | n=262144 GB/s | n=1048576 GB/s |
 |---------|-------------|-------------|--------------|--------------|---------------|----------------|
-| seq | 22.06 | 21.15 | 20.99 | 20.88 | 20.87 | 26.07 |
-| blas | 277.33 | 154.31 | 94.81 | 277.59 | 496.26 | 523.74 |
-| omp | 0.00 | 0.01 | 0.04 | 0.18 | 0.73 | 2.98 |
-| gpu | 2.40 | 9.59 | 38.24 | 153.33 | 57.25 | 234.47 |
+| seq | 22.40 | 21.54 | 21.32 | 21.21 | 21.20 | 22.26 |
+| blas | 211.51 | 142.11 | 88.00 | 282.21 | 495.23 | 485.47 |
+| omp | 0.00 | 0.01 | 0.06 | 0.21 | 0.72 | 2.92 |
+| gpu | 2.44 | 9.75 | 38.68 | 154.58 | 55.59 | 236.07 |
 
 *Throughput in GB/s. Higher is better.*
 
@@ -181,10 +181,10 @@ Memory-bound. GB/s = `(n² + 2n) × 8 / time`.
 
 | Variant | n=1024 GB/s | n=4096 GB/s | n=16384 GB/s | n=65536 GB/s | n=262144 GB/s | n=1048576 GB/s |
 |---------|-------------|-------------|--------------|--------------|---------------|----------------|
-| seq | 377.93 | 221.34 | 223.61 | 186.26 | 186.25 | 183.28 |
-| blas | 358.49 | 220.07 | 133.71 | 387.36 | 693.99 | 674.22 |
-| omp | 0.01 | 0.02 | 0.07 | 0.29 | 1.11 | 4.41 |
-| gpu | 88.01 | 361.60 | 1405.75 | 5614.33 | 22488.22 | 89781.20 |
+| seq | 262.93 | 184.04 | 199.12 | 188.22 | 164.72 | 164.04 |
+| blas | 307.78 | 215.50 | 132.04 | 399.82 | 670.27 | 682.62 |
+| omp | 0.01 | 0.02 | 0.07 | 0.27 | 1.14 | 6.18 |
+| gpu | 88.71 | 360.77 | 1414.75 | 5646.60 | 22559.62 | 90374.60 |
 
 *Throughput in GB/s. Higher is better.*
 
@@ -216,9 +216,9 @@ significantly faster than our unblocked Doolittle for large n.
 
 | Variant | n=64 us | n=128 us | n=256 us | n=512 us | n=1024 us |
 |---------|---------|----------|----------|----------|-----------|
-| seq | 11.5 | 100.2 | 866.2 | 8612.7 | 57056.2 |
-| omp | 11.5 | 100.4 | 865.9 | 8618.8 | 57074.2 |
-| LU<Backend::lapack> | 17.5 | 206175.7 | 444255.8 | 1045780.3 | 2022456.5 |
+| seq | 11.4 | 97.5 | 866.5 | 8462.9 | 56296.4 |
+| omp | 11.4 | 99.1 | 866.7 | 8461.6 | 56488.9 |
+| LU<Backend::lapack> | 17.4 | 137617.6 | 224417.9 | 1305375.8 | 2997137.8 |
 
 *GFLOP/s: 2/3 n^3 / time. Higher is better.*
 
@@ -232,9 +232,9 @@ LAPACK (`dgeqrf` + `dorgqr`) uses blocked Householder with `dgemm` for panel upd
 
 | Variant | n=64 us | n=128 us | n=256 us | n=512 us |
 |---------|---------|----------|----------|----------|
-| seq | 201.8 | 4032.5 | 89445.9 | 1734123.0 |
-| omp | 184.9 | 4019.4 | 89586.0 | 1734253.4 |
-| QR<Backend::lapack> | 66.1 | 731.4 | 2585.9 | 17194.0 |
+| seq | 195.1 | 3982.6 | 91978.8 | 1742957.2 |
+| omp | 175.7 | 3997.4 | 91749.6 | 1746472.0 |
+| QR<Backend::lapack> | 63.3 | 790.8 | 3310.6 | 21922.4 |
 
 *GFLOP/s: 4/3 n^3 / time. Higher is better.*
 
@@ -249,7 +249,7 @@ pivoting for stability.
 
 | Variant | n=64 us | n=256 us | n=1024 us | n=4096 us | n=16384 us | n=65536 us |
 |---------|---------|----------|-----------|-----------|------------|------------|
-| Thomas | 1.0 | 4.0 | 15.6 | 61.6 | 247.4 | 993.1 |
+| Thomas | 1.0 | 3.9 | 15.4 | 60.7 | 244.0 | 996.8 |
 
 *Time in us. Linear O(n) scaling expected.*
 
@@ -276,8 +276,8 @@ CG inner-product and axpy calls dispatch to `best_backend` (BLAS when available)
 
 | Variant | n=32 us | n=64 us | n=128 us | n=256 us |
 |---------|---------|---------|----------|----------|
-| CG | 1.4 | 3.0 | 17.0 | 22.0 |
-| gpu | 37.6 | 35.5 | 35.7 | 36.5 |
+| CG | 1.4 | 2.9 | 17.0 | 21.7 |
+| gpu | 37.5 | 35.0 | 35.3 | 36.2 |
 
 *Time in us. Lower is better.*
 
@@ -298,16 +298,16 @@ CG inner-product and axpy calls dispatch to `best_backend` (BLAS when available)
 
 | Variant | n=3 us | n=5 us | n=7 us | n=11 us | n=15 us | n=21 us | n=64 us | n=256 us | n=1024 us | n=4096 us | n=16384 us | n=65536 us | n=262144 us |
 |---------|--------|--------|--------|---------|---------|---------|---------|----------|-----------|-----------|------------|------------|-------------|
-| BandedSolve_Tridiagonal | -- | -- | -- | -- | -- | -- | 1.4 | 4.7 | 17.9 | 70.1 | 282.6 | 1510.4 | 6357.6 |
-| BandedSolve_Pentadiagonal | -- | -- | -- | -- | -- | -- | 1.7 | 5.6 | 21.6 | 85.1 | 344.4 | 2016.4 | -- |
-| BandedSolve_General_KL2_KU4 | -- | -- | -- | -- | -- | -- | 1.7 | 5.9 | 22.8 | 89.5 | 669.8 | 2321.8 | -- |
-| BandedSolve_General_KL5_KU5 | -- | -- | -- | -- | -- | -- | 2.1 | 7.9 | 30.3 | 123.1 | 871.0 | -- | -- |
-| BandedLU_Factorization | -- | -- | -- | -- | -- | -- | 0.9 | 2.4 | 8.7 | 34.0 | 135.8 | 534.8 | -- |
-| BandedLU_Solve | -- | -- | -- | -- | -- | -- | 1.1 | 3.2 | 11.9 | 46.5 | 185.5 | 743.5 | -- |
-| BandedSolve_MultiRHS | -- | -- | -- | -- | -- | -- | 11.9 | 47.1 | 186.7 | 746.4 | 2986.4 | -- | -- |
-| BandedMatvec_Tridiagonal | -- | -- | -- | -- | -- | -- | 0.5 | 1.5 | 5884.2 | 5922.0 | 5496.1 | 6021.6 | 5702.0 |
-| BandedMatvec_Pentadiagonal | -- | -- | -- | -- | -- | -- | 0.7 | 2.4 | 5791.0 | 5498.6 | 5793.1 | 3128.1 | 5912.8 |
-| BandedSolve_Bandwidth_Scaling | 72.9 | 85.4 | 97.8 | 135.0 | 182.4 | 292.0 | -- | -- | -- | -- | -- | -- | -- |
+| BandedSolve_Tridiagonal | -- | -- | -- | -- | -- | -- | 1.4 | 4.7 | 17.6 | 69.4 | 278.3 | 1502.7 | 6306.1 |
+| BandedSolve_Pentadiagonal | -- | -- | -- | -- | -- | -- | 1.7 | 5.6 | 21.4 | 84.4 | 339.5 | 2001.1 | -- |
+| BandedSolve_General_KL2_KU4 | -- | -- | -- | -- | -- | -- | 1.7 | 5.8 | 22.6 | 90.7 | 669.1 | 2313.9 | -- |
+| BandedSolve_General_KL5_KU5 | -- | -- | -- | -- | -- | -- | 2.2 | 8.0 | 30.5 | 121.5 | 884.3 | -- | -- |
+| BandedLU_Factorization | -- | -- | -- | -- | -- | -- | 0.9 | 2.4 | 8.6 | 33.6 | 134.0 | 529.0 | -- |
+| BandedLU_Solve | -- | -- | -- | -- | -- | -- | 1.1 | 3.2 | 11.7 | 45.8 | 182.6 | 729.5 | -- |
+| BandedSolve_MultiRHS | -- | -- | -- | -- | -- | -- | 11.7 | 46.2 | 184.0 | 735.6 | 2943.8 | -- | -- |
+| BandedMatvec_Tridiagonal | -- | -- | -- | -- | -- | -- | 0.6 | 1.5 | 5828.3 | 5723.1 | 5785.5 | 5984.1 | 5856.8 |
+| BandedMatvec_Pentadiagonal | -- | -- | -- | -- | -- | -- | 0.8 | 2.3 | 5738.5 | 5766.8 | 5785.9 | 5433.3 | 5800.6 |
+| BandedSolve_Bandwidth_Scaling | 72.2 | 87.1 | 99.1 | 134.5 | 181.2 | 295.9 | -- | -- | -- | -- | -- | -- | -- |
 
 *Time in us. Lower is better.*
 
@@ -335,8 +335,8 @@ Lanczos is matrix-free and targets only k eigenvalues — it lives on a separate
 
 | Variant | n=32 us | n=64 us | n=128 us | n=256 us | n=512 us |
 |---------|---------|---------|----------|----------|----------|
-| seq | 174.0 | 1189.0 | 11470.5 | 280768.3 | 7063639.7 |
-| EigSym<Backend::lapack> | 49.6 | 177.9 | 915.9 | 3240.0 | 22079.3 |
+| seq | 171.1 | 1189.9 | 10779.5 | 260829.1 | 7211829.7 |
+| EigSym<Backend::lapack> | 52.5 | 178.3 | 1096.4 | 3507.1 | 20511.3 |
 
 *Time in us. Lower is better.*
 
@@ -347,7 +347,7 @@ k = 10 eigenvalues requested. Each step costs one matvec O(n²) plus reorthogona
 
 | Variant | n=64 us | n=128 us | n=256 us | n=512 us | n=1024 us | n=2048 us |
 |---------|---------|----------|----------|----------|-----------|-----------|
-| Lanczos | 26.5 | 138.1 | 244.1 | 524.9 | 1613.9 | 5725.7 |
+| Lanczos | 27.1 | 196.7 | 447.3 | 816.0 | 2078.9 | 9465.7 |
 
 *Time in us (k=10 eigenvalues). Lower is better.*
 
@@ -376,7 +376,7 @@ Three variants: **our one-sided Jacobi**, **randomized truncated SVD** (top k = 
 
 | Variant | n=64 us | n=128 us | n=256 us | n=512 us | n=1024 us |
 |---------|---------|----------|----------|----------|-----------|
-| SVD_Randomized | 190.6 | 1144.3 | 10658.5 | 277584.8 | 2480805.3 |
+| SVD_Randomized | 189.9 | 2620.1 | 13943.8 | 344842.3 | 2488064.3 |
 
 *Time in us (k=n/8 singular values). Lower is better.*
 
@@ -393,7 +393,7 @@ Root finding (bisection, Newton, secant) and numerical quadrature
 | Suite | Tests | Passed | Failed | Time |
 |-------|------:|-------:|-------:|-----:|
 | Roots | 9 | 9 | 0 | 0.0 ms |
-| Quadrature | 11 | 11 | 0 | 37.0 ms |
+| Quadrature | 11 | 11 | 0 | 13.0 ms |
 
 
 ---
@@ -406,8 +406,8 @@ Backends: `seq` (Cooley-Tukey), `simd` (AVX2/NEON), `fftw` (FFTW3).
 
 | Suite | Tests | Passed | Failed | Time |
 |-------|------:|-------:|-------:|-----:|
-| FFT | 13 | 13 | 0 | 1.0 ms |
-| FFTPlan | 4 | 4 | 0 | 60.0 ms |
+| FFT | 13 | 13 | 0 | 2.0 ms |
+| FFTPlan | 4 | 4 | 0 | 61.0 ms |
 
 
 ### Benchmarks — Forward FFT
@@ -417,10 +417,10 @@ Backends: `seq` (Cooley-Tukey), `simd` (AVX2/NEON), `fftw` (FFTW3).
 
 | Variant | n=256 GB/s | n=1024 GB/s | n=4096 GB/s | n=16384 GB/s | n=65536 GB/s | n=262144 GB/s | n=1048576 GB/s |
 |---------|------------|-------------|-------------|--------------|--------------|---------------|----------------|
-| seq (Cooley-Tukey) | 2.47 | 2.00 | 1.63 | 1.36 | 1.17 | 1.06 | -- |
-| simd (AVX2/NEON) | 7.01 | 6.45 | 5.06 | 4.03 | 3.44 | 3.28 | -- |
-| std::simd | 4.20 | 3.67 | 3.10 | 2.58 | 2.23 | 2.08 | -- |
-| fftw (FFTW3) | 40.86 | 26.65 | 17.34 | 15.06 | 10.70 | 8.44 | 5.19 |
+| seq (Cooley-Tukey) | 2.54 | 2.07 | 1.71 | 1.42 | 1.19 | 1.10 | -- |
+| simd (AVX2/NEON) | 6.75 | 5.93 | 4.83 | 4.19 | 3.20 | 3.15 | -- |
+| std::simd | 4.22 | 3.67 | 3.14 | 2.62 | 2.19 | 2.10 | -- |
+| fftw (FFTW3) | 31.62 | 27.68 | 16.81 | 14.09 | 9.32 | 8.02 | 5.07 |
 
 *Throughput in GB/s. Higher is better.*
 
@@ -432,10 +432,10 @@ Backends: `seq` (Cooley-Tukey), `simd` (AVX2/NEON), `fftw` (FFTW3).
 
 | Variant | n=256 GB/s | n=1024 GB/s | n=4096 GB/s | n=16384 GB/s | n=65536 GB/s | n=262144 GB/s | n=1048576 GB/s |
 |---------|------------|-------------|-------------|--------------|--------------|---------------|----------------|
-| seq (Cooley-Tukey) | 2.47 | 2.00 | 1.63 | 1.36 | 1.17 | 1.06 | -- |
-| simd (AVX2/NEON) | 7.01 | 6.45 | 5.06 | 4.03 | 3.44 | 3.28 | -- |
-| std::simd | 4.20 | 3.67 | 3.10 | 2.58 | 2.23 | 2.08 | -- |
-| fftw (FFTW3) | 40.86 | 26.65 | 17.34 | 15.06 | 10.70 | 8.44 | 5.19 |
+| seq (Cooley-Tukey) | 2.54 | 2.07 | 1.71 | 1.42 | 1.19 | 1.10 | -- |
+| simd (AVX2/NEON) | 6.75 | 5.93 | 4.83 | 4.19 | 3.20 | 3.15 | -- |
+| std::simd | 4.22 | 3.67 | 3.14 | 2.62 | 2.19 | 2.10 | -- |
+| fftw (FFTW3) | 31.62 | 27.68 | 16.81 | 14.09 | 9.32 | 8.02 | 5.07 |
 
 *Throughput in GB/s. Plan creation excluded. Higher is better.*
 
@@ -447,10 +447,10 @@ Backends: `seq` (Cooley-Tukey), `simd` (AVX2/NEON), `fftw` (FFTW3).
 
 | Variant | n=256 GB/s | n=1024 GB/s | n=4096 GB/s | n=16384 GB/s | n=65536 GB/s | n=262144 GB/s | n=1048576 GB/s |
 |---------|------------|-------------|-------------|--------------|--------------|---------------|----------------|
-| seq (Cooley-Tukey) | 0.64 | 0.52 | 0.42 | 0.36 | 0.31 | 0.27 | -- |
-| simd (AVX2/NEON) | 1.52 | 1.50 | 1.39 | 1.21 | 1.08 | 1.03 | -- |
-| std::simd | 1.23 | 1.15 | 1.04 | 0.92 | 0.81 | 0.77 | -- |
-| fftw (FFTW3) | 0.28 | 0.84 | 1.66 | 1.98 | 2.12 | 1.76 | 1.66 |
+| seq (Cooley-Tukey) | 0.66 | 0.53 | 0.43 | 0.36 | 0.31 | 0.28 | -- |
+| simd (AVX2/NEON) | 1.63 | 1.56 | 1.44 | 1.22 | 1.08 | 1.02 | -- |
+| std::simd | 1.25 | 1.17 | 1.06 | 0.94 | 0.83 | 0.77 | -- |
+| fftw (FFTW3) | 0.28 | 0.86 | 1.71 | 2.04 | 2.12 | 1.74 | 1.64 |
 
 *Throughput in GB/s. Higher is better.*
 
